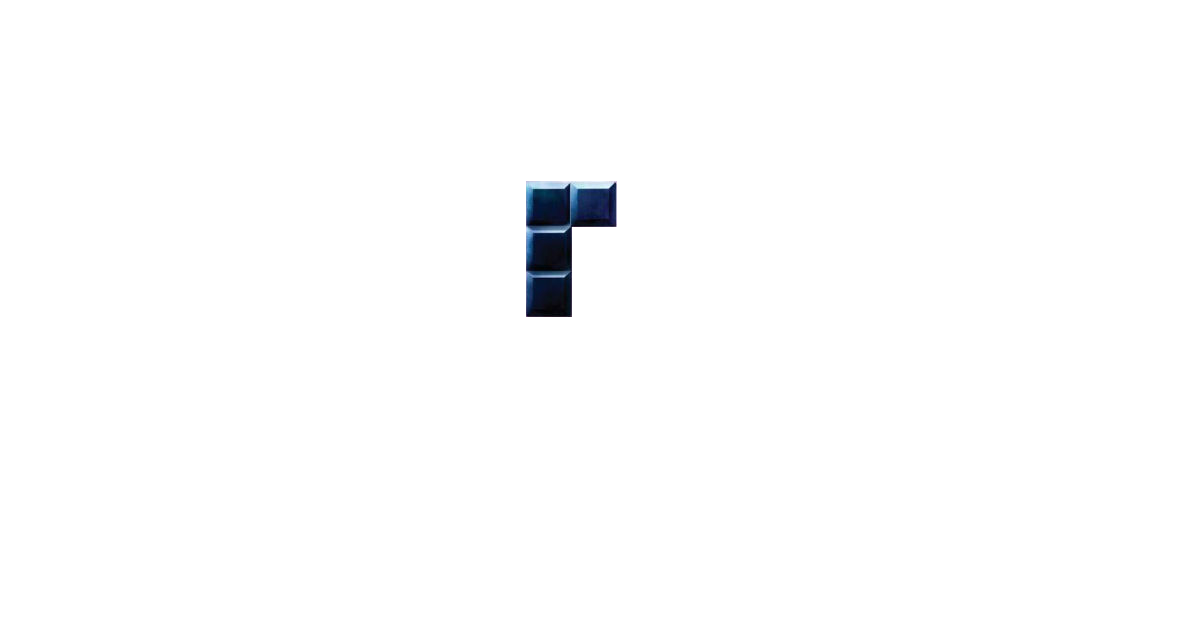
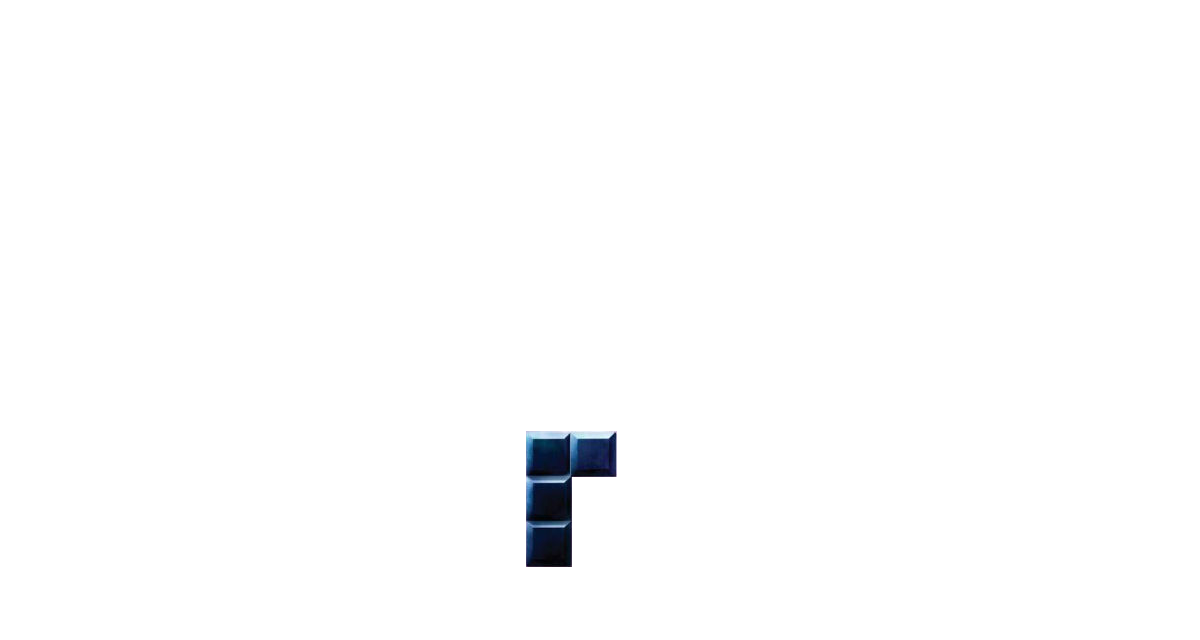
fixed background

Changed region(s): [[0.4317, 0.6562, 0.5242, 0.9062], [0.4317, 0.2812, 0.5242, 0.5]]

diff --git a/css/index.css b/css/index.css
@@ -1,2 +1,2 @@
-body{color:white;font-family:'Acme', sans-serif;overflow:hidden}h1{margin-left:50px;padding-top:50px;animation-name:show;animation-duration:5s;animation-delay:5s;opacity:0;animation-fill-mode:forwards;font-size:6em}#primero{margin-left:100px;margin-top:50px;animation-name:show;animation-duration:5s;animation-delay:10s;opacity:0;animation-fill-mode:forwards;font-size:4em}#segundo{margin-left:150px;margin-top:50px;animation-name:show;animation-duration:5s;animation-delay:15s;animation-fill-mode:forwards;opacity:0;font-size:4em}@keyframes show{0%{opacity:0}100%{opacity:1}}.bg{width:100%;height:100vh}#background{background-image:url(../resources/portada.jpg);background-repeat:no-repeat;background-size:cover}#piece{background-image:url(../resources/pieza.png);background-repeat:no-repeat;background-size:cover;position:absolute;animation-name:moving;animation-fill-mode:forwards;animation-duration:25s;animation-delay:1s}@keyframes moving{0%{margin-top:0}100%{margin-top:23.5%}}a{text-decoration:none}button{width:60px;height:38px;position:fixed;bottom:10px;right:50px;animation-name:button;animation-duration:5s;animation-delay:20s;animation-fill-mode:forwards;opacity:0}@keyframes button{0%{opacity:0;width:60px;height:38px}100%{width:400px;height:100px;opacity:1}}
+body{color:white;font-family:'Acme', sans-serif;overflow:hidden}h1{margin-left:50px;padding-top:50px;animation-name:show;animation-duration:5s;animation-delay:5s;opacity:0;animation-fill-mode:forwards;font-size:6em}#primero{margin-left:100px;margin-top:50px;animation-name:show;animation-duration:5s;animation-delay:10s;opacity:0;animation-fill-mode:forwards;font-size:4em}#segundo{margin-left:150px;margin-top:50px;animation-name:show;animation-duration:5s;animation-delay:15s;animation-fill-mode:forwards;opacity:0;font-size:4em}@keyframes show{0%{opacity:0}100%{opacity:1}}.bg{width:100%;height:100vh}#background{background-image:url(../resources/portada.jpg);background-repeat:no-repeat;background-size:cover}#piece{background-image:url(../resources/pieza.png);background-repeat:no-repeat;background-size:cover;position:absolute;animation-name:moving;animation-fill-mode:forwards;animation-duration:20s;animation-delay:1s;margin-top:-300px}@keyframes moving{0%{margin-top:-300px}100%{margin-top:0}}a{text-decoration:none}button{width:60px;height:38px;position:fixed;bottom:10px;right:50px;animation-name:button;animation-duration:5s;animation-delay:15s;animation-fill-mode:forwards;opacity:0}@keyframes button{0%{opacity:0;width:60px;height:38px}100%{width:400px;height:100px;opacity:1}}
 /*# sourceMappingURL=index.css.map */

diff --git a/scss/index.scss b/scss/index.scss
@@ -62,17 +62,18 @@ h1{
     position: absolute;
     animation-name: moving;
     animation-fill-mode: forwards;
-    animation-duration: 25s;
+    animation-duration: 20s;
     animation-delay: 1s;
+    margin-top: -300px;
 }
 
 @keyframes moving {
     0% {
-      margin-top: 0;
+      margin-top: -300px;
     }
   
     100% {
-      margin-top: 23.5%;
+      margin-top: 0;
     }
 }
 
@@ -89,7 +90,7 @@ button{
     right: 50px;
     animation-name: button;
     animation-duration: 5s;
-    animation-delay: 20s;
+    animation-delay: 15s;
     animation-fill-mode: forwards;
     opacity: 0;
 
